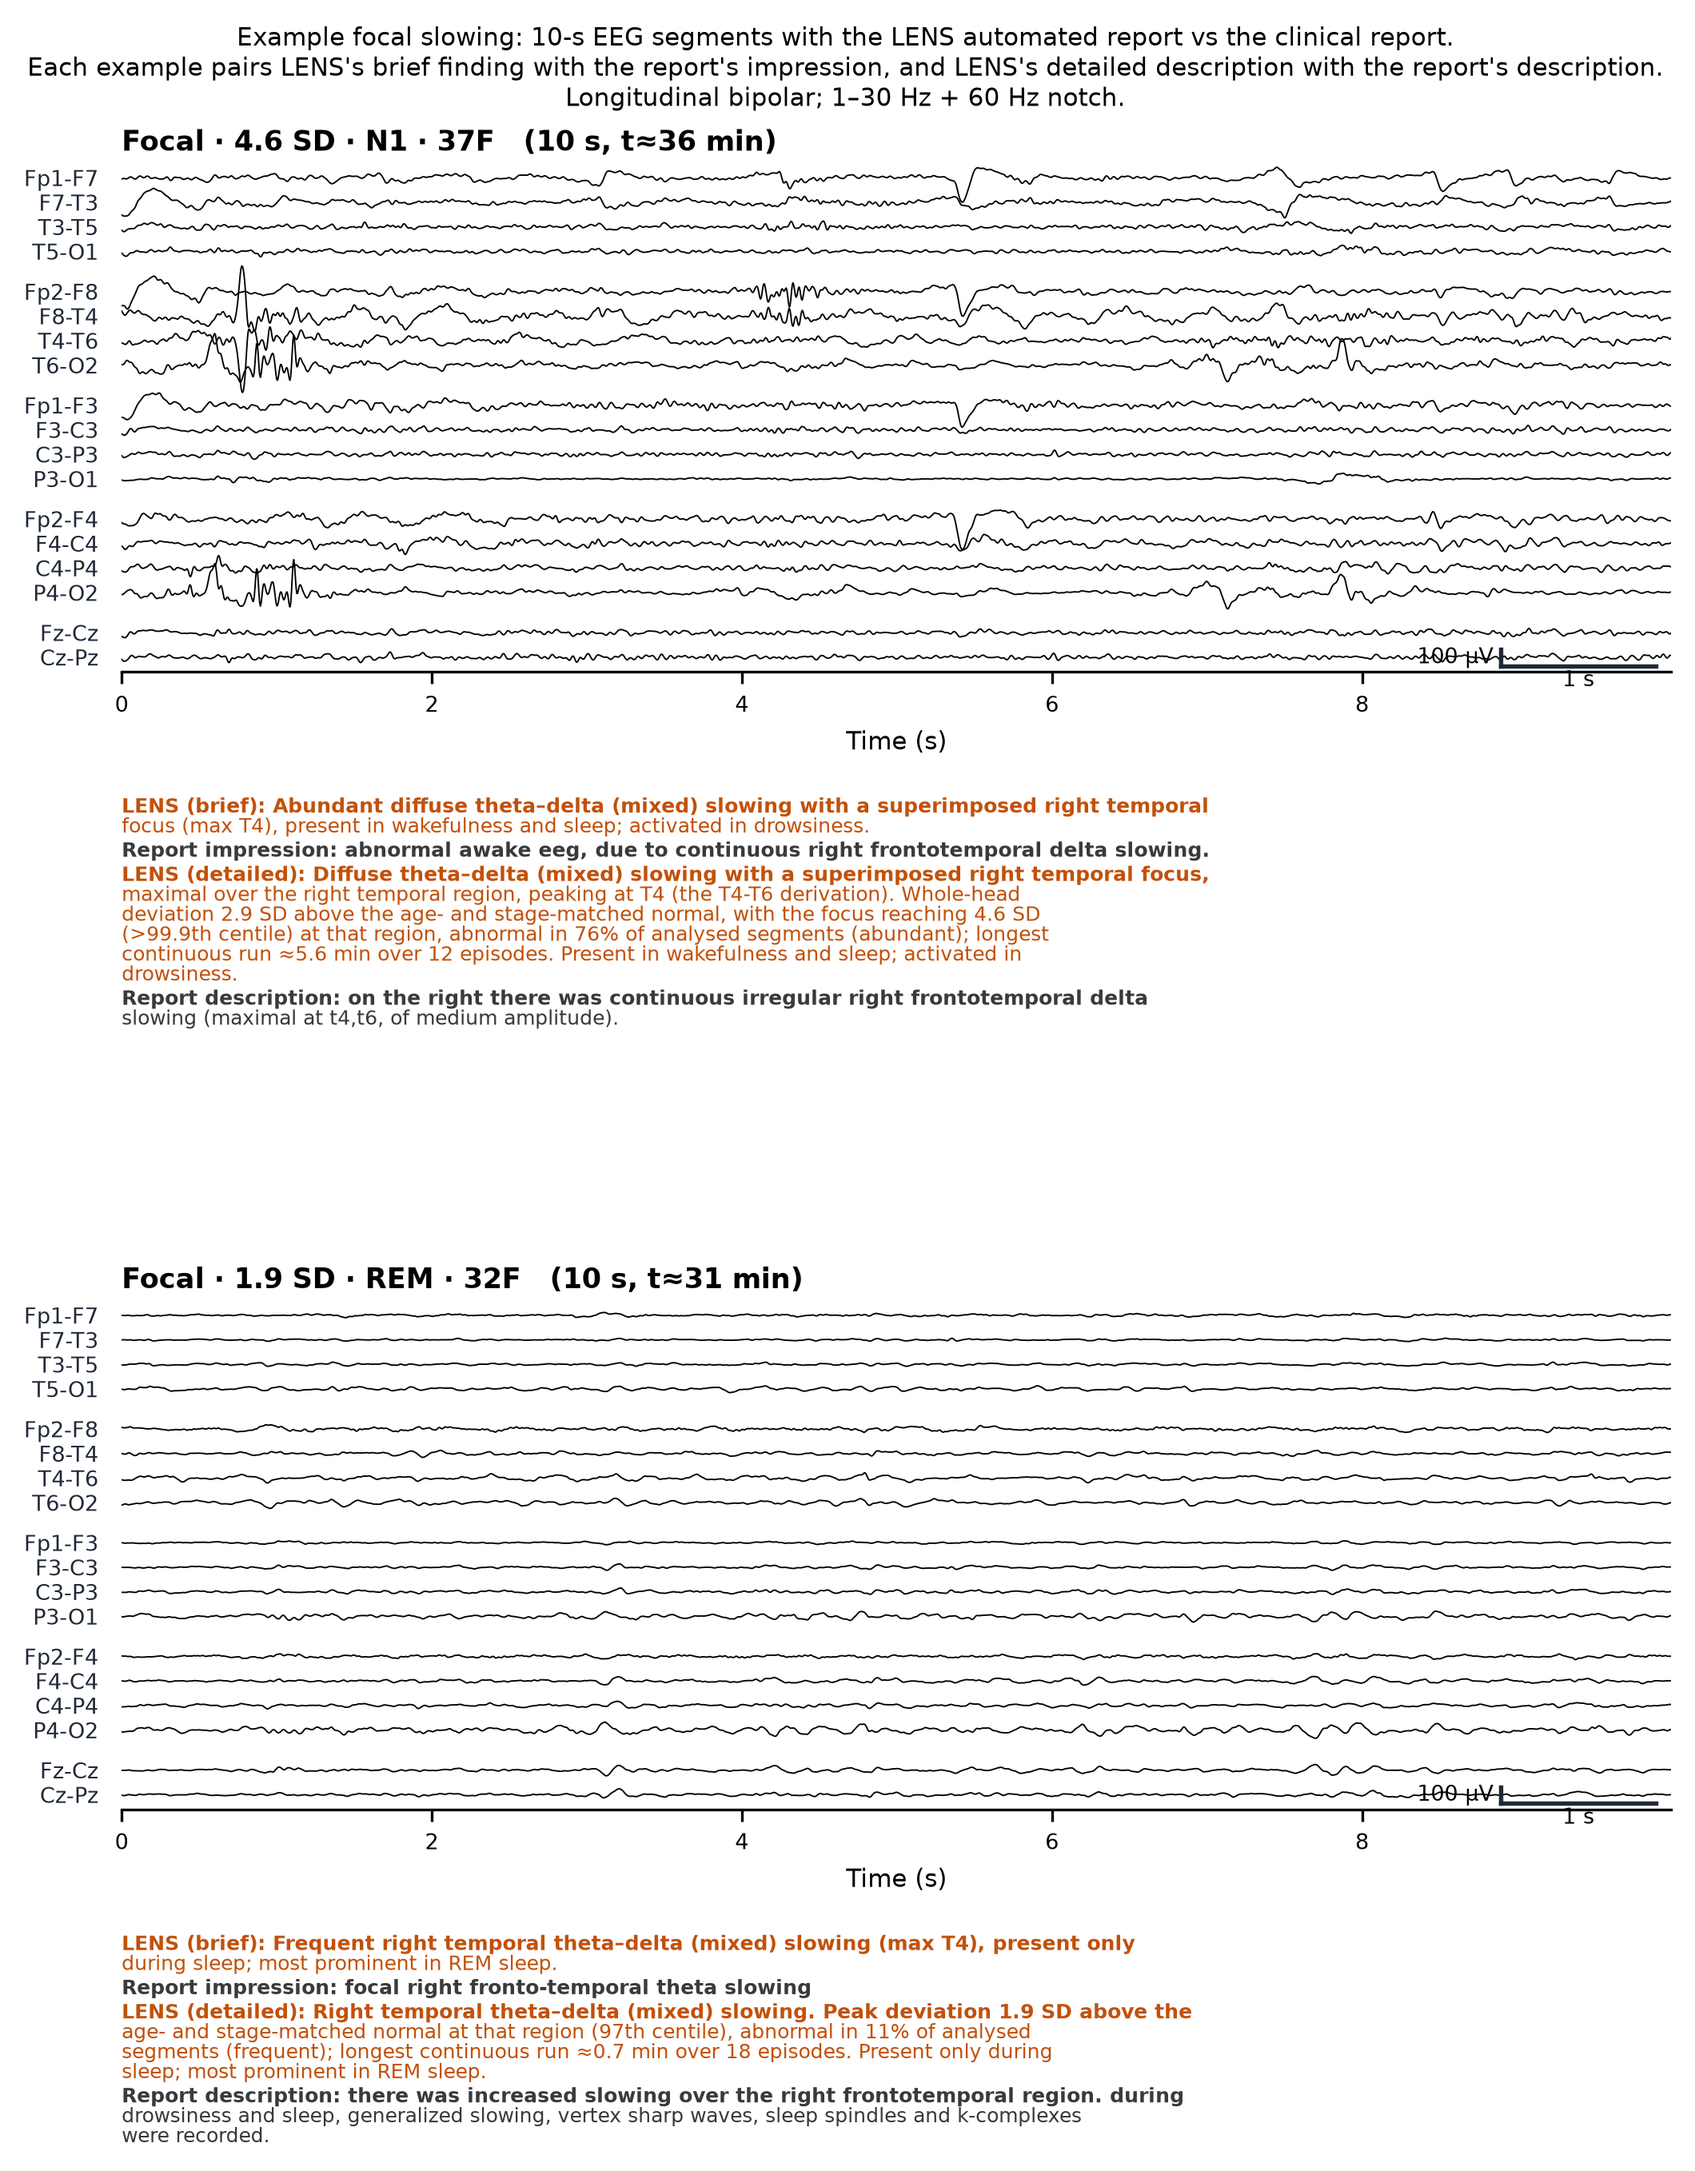
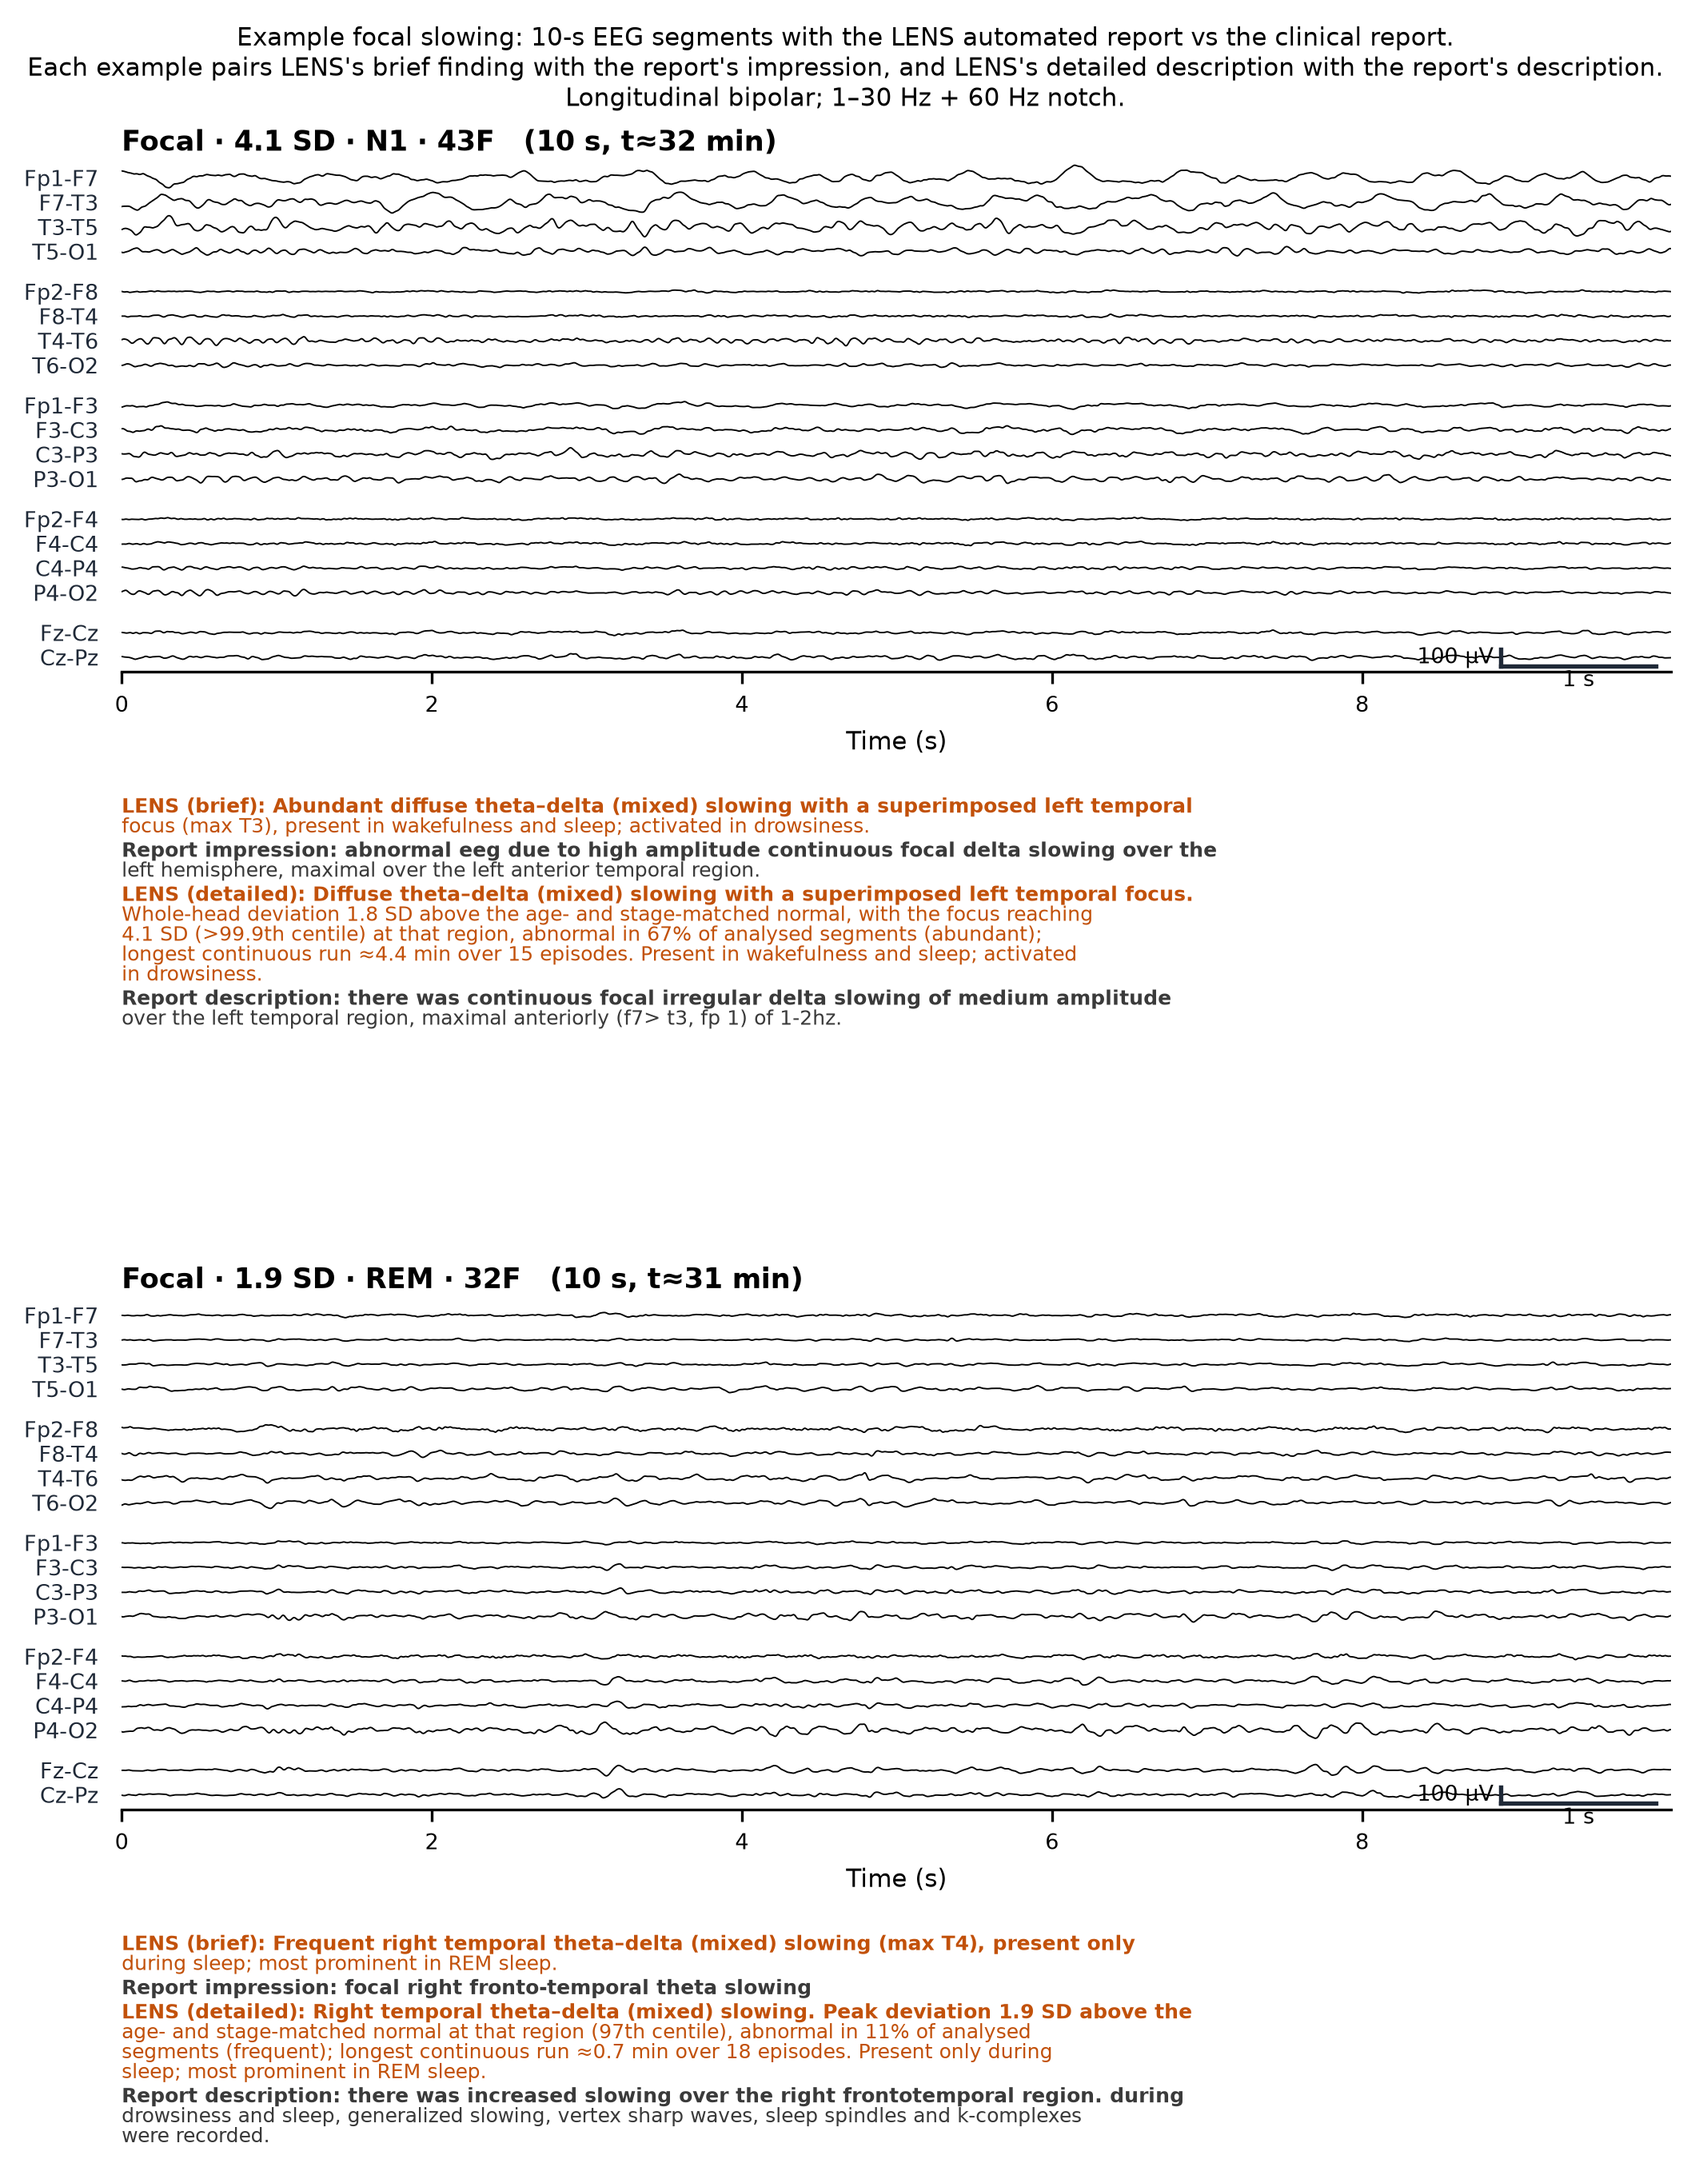
Swap Figure 4's marked focal example for a focal-DOMINANT one
The GBM case that replaced the epileptiform panel was clean but LENS described it
as "diffuse theta-delta slowing with a superimposed right temporal focus" -- the
focus rode on a diffusely slow background, so the panel's own caption contradicted
the figure it sits in.

Selection now ranks on FOCALITY (peak region z minus the median region), not peak
z alone, which is the flaw underneath: the highest-z recordings are diffusely slow
with a focus on top. The chosen recording has a whole-head deviation of 1.8 SD
against a 4.1 SD left temporal focus, and its report reads "high amplitude
continuous focal delta slowing over the left hemisphere, maximal over the left
anterior temporal region... maximal anteriorly (f7 > t3, fp 1) of 1-2hz", which
LENS independently localises to max T3. It is also left-sided, so Figure 4 now
shows both lateralities across its two panels.

Fixes the pre-existing negation blindness in the July PERIODIC filter while here.
It matched the word "periodic" inside structured-report checklists reading
"periodic or rhythmic patterns: none", so it had been silently rejecting the
cleanest candidates -- the ones whose reports state the absence explicitly. Now
clause-level and negation-aware, scoped so the IMPRESSION decides primary findings
while the body text is screened only for asserted periodic patterns; scanning the
body for epileptiform rejected good exemplars over incidental history mentions.
[…]

Changed region(s): [[0.0623, 0.0619, 0.9651, 0.3094], [0.0623, 0.3713, 0.716, 0.495]]

diff --git a/scripts/62_example_reports_panel.py b/scripts/62_example_reports_panel.py
@@ -36,11 +36,16 @@ EXCLUDE_IDS = ("S0001121298232",)
 # is what actually needed updating: the committed cards were built from the superseded 7-region descriptors.
 # Order is the display order: 3 focal (marked/moderate/mild), then 3 generalized.
 PINNED_EXAMPLES = (
-    "S0001117361164_20120710082827",   # focal, marked. Chosen deliberately, not by the search: its
-                                       # impression reads "continuous right frontotemporal delta slowing.
-                                       # no epileptiform abnormalities were detected", in a patient with a
-                                       # right temporal GBM resection -- a clean focal exemplar with a
-                                       # structural cause, which is exactly what this figure illustrates. The automatic pick is not trustworthy here --
+    "S0001116080658_20120620112030",   # focal, marked. Chosen deliberately, not by the search: its
+                                       # impression reads "high amplitude continuous FOCAL delta slowing
+                                       # over the left hemisphere, maximal over the left anterior temporal
+                                       # region. there were no epileptiform..." -- focal-first rather than
+                                       # diffuse-with-a-superimposed-focus, which is what this figure is
+                                       # for. Ranked on FOCALITY (peak region z minus the median region),
+                                       # not peak z alone: the highest-z recordings are diffusely slow with
+                                       # a focus riding on top, so LENS describes them as diffuse and the
+                                       # panel then contradicts the figure it sits in. Left-sided, which
+                                       # also contrasts with the right temporal panel beside it. The automatic pick is not trustworthy here --
                                        # de-identification redacts findings behind asterisks, so a text
                                        # screen cannot see "abundant ****** sharp discharges", and ranking on
                                        # peak z alone surfaced an attenuation case and a status-epilepticus
@@ -72,7 +77,15 @@ EPILEPTIFORM = re.compile(r"\b(spike|sharp wave|sharp-wave|polyspike|epileptifor
                           re.I)
 # ... but the mention must be ASSERTED. "there are no definite epileptiform abnormalities" is a clean report
 # and a legitimate exemplar, so a bare keyword search would throw away good cases along with bad ones.
-_NEG = re.compile(r"\b(no|not|without|absent|negative for|free of)\b", re.I)
+_NEG = re.compile(r"\b(no|not|none|without|absent|negative for|free of|unremarkable)\b", re.I)
+
+
+def _asserts(pat, s: str) -> bool:
+    """True if `pat` matches a clause of `s` that is not negated."""
+    for clause in re.split(r"[.;\n]|\d\)", str(s or "")):
+        if pat.search(clause) and not _NEG.search(clause):
+            return True
+    return False
 
 
 def asserts_epileptiform(impression: str) -> bool:
@@ -254,11 +267,24 @@ def main():
 
     # drop recordings whose report describes a PERIODIC epileptiform pattern (LPDs etc.) — not clean slowing
     def _no_periodic(eid):
+        """Reject only recordings whose report ASSERTS a periodic or epileptiform pattern.
+
+        The original screen matched PERIODIC anywhere in impression+text with no negation handling, so a
+        structured report reading "periodic or rhythmic patterns: none. epileptiform discharges: none."
+        was rejected for containing the word "periodic" -- it silently discarded exactly the cleanest
+        candidates, the ones whose reports state the absence explicitly.
+        """
         if eid not in man.index:
             return True
-        if PERIODIC.search(str(man.report_impression.get(eid, "")) + " " + str(man.report_text.get(eid, ""))):
-            return False
-        return not asserts_epileptiform(man.report_impression.get(eid, ""))
+        imp = str(man.report_impression.get(eid, "") or "")
+        txt = str(man.report_text.get(eid, "") or "")
+        # The IMPRESSION decides what this recording's primary abnormalities are, so epileptiform content
+        # there disqualifies it. The body text also carries indication, history and prior-study comparison,
+        # where an epileptiform mention says nothing about this recording -- scanning it for epileptiform
+        # rejected good exemplars. It is still scanned for PERIODIC patterns, because that was the original
+        # concern (an LPD run visible in the displayed segment), now negation-aware so a report stating
+        # "periodic or rhythmic patterns: none" is kept.
+        return not (asserts_epileptiform(imp) or _asserts(PERIODIC, txt))
     d = d[d.eeg_id.map(_no_periodic)]
 
     # --- pick 6 CONCORDANT examples (our field agrees slowing is present), 3 focal + 3 generalized,

diff --git a/results/story/s4_examples.md b/results/story/s4_examples.md
@@ -2,10 +2,10 @@
 
 LENS's BRIEF finding line and FULL report paragraph (governed by docs/claims_table.md — magnitude in SD/centile, no severity adjective) beside the clinical report's STRUCTURED descriptors (raw report text withheld as PHI). Regional strip = per-region delta-excess deviation z (focal = one region high; diffuse = broadly elevated).
 
-**Case 1 — Focal slowing · peak 4.6 SD (>99.9th centile) · prominent in N1 · 37F**  
-- LENS (brief): Abundant diffuse theta–delta (mixed) slowing with a superimposed right temporal focus (max T4), present in wakefulness and sleep; activated in drowsiness.  
-- LENS (full): Diffuse theta–delta (mixed) slowing with a superimposed right temporal focus, maximal over the right temporal region, peaking at T4 (the T4-T6 derivation). Whole-head deviation 2.9 SD above the age- and stage-matched normal, with the focus reaching 4.6 SD (>99.9th centile) at that region, abnormal in 76% of analysed segments (abundant); longest continuous run ≈5.6 min over 12 episodes. Present in wakefulness and sleep; activated in drowsiness.  
-- Report (structured): focal slowing, right temporal (mixed)
+**Case 1 — Focal slowing · peak 4.1 SD (>99.9th centile) · prominent in N1 · 43F**  
+- LENS (brief): Abundant diffuse theta–delta (mixed) slowing with a superimposed left temporal focus (max T3), present in wakefulness and sleep; activated in drowsiness.  
+- LENS (full): Diffuse theta–delta (mixed) slowing with a superimposed left temporal focus. Whole-head deviation 1.8 SD above the age- and stage-matched normal, with the focus reaching 4.1 SD (>99.9th centile) at that region, abnormal in 67% of analysed segments (abundant); longest continuous run ≈4.4 min over 15 episodes. Present in wakefulness and sleep; activated in drowsiness.  
+- Report (structured): focal slowing, left temporal (delta)
 
 **Case 2 — Focal slowing · peak 1.9 SD (97th centile) · prominent in REM · 32F**  
 - LENS (brief): Frequent right temporal theta–delta (mixed) slowing (max T4), present only during sleep; most prominent in REM sleep.  
